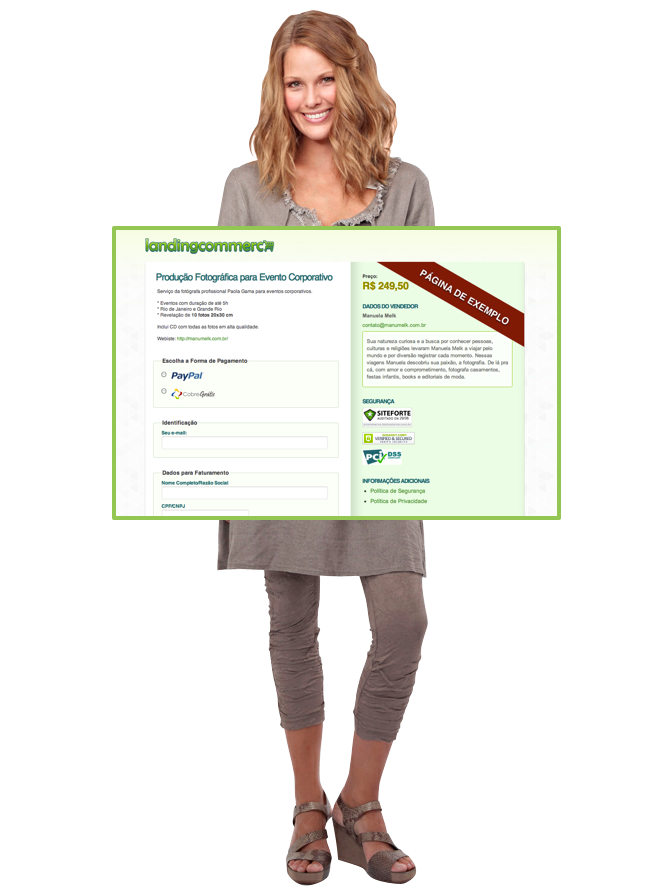
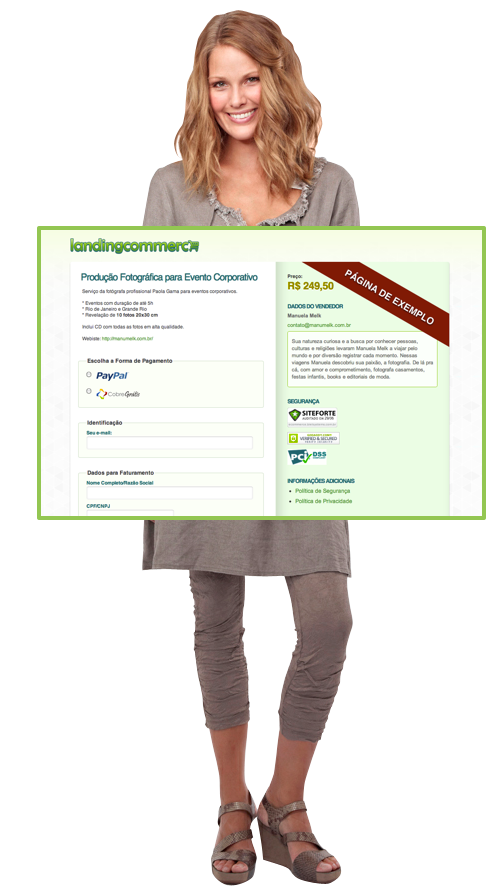
reduce woman image size (fix bug, moip was not clickable)

Changed region(s): [[0.06, 0.0, 0.99, 0.9966], [0.27, 0.5738, 0.36, 0.6644]]

diff --git a/css/styles.css b/css/styles.css
@@ -47,7 +47,7 @@ body#landing header #tagline {
   font-size: 1.6em;
 }
 body#landing aside {
-  width: 650px;
+  width: 500px;
   min-height: 890px;
   background: url("/images/woman.png") no-repeat top left;
   position: absolute;
